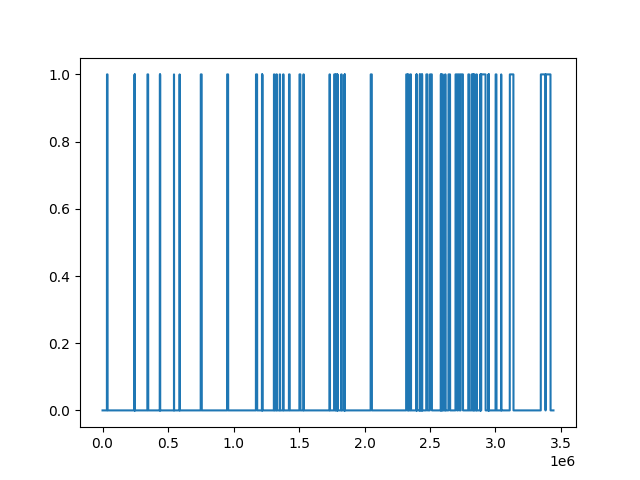
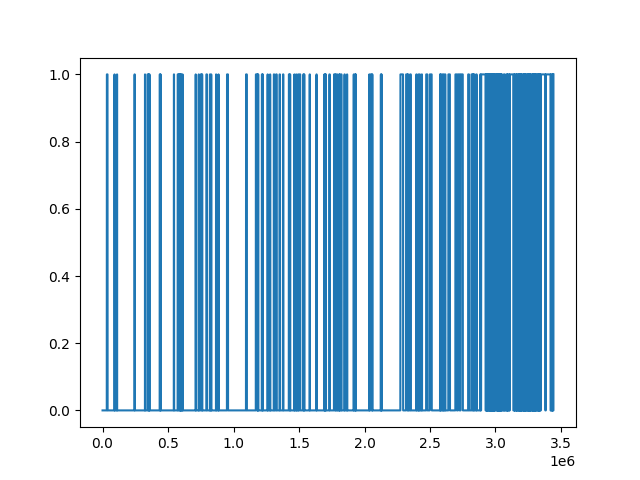
Promising results using spindle torque fingerprint for clustering

diff --git a/src/visualize.py b/src/visualize.py
@@ -67,7 +67,11 @@ def plot_data_and_labels(X, labels):
     df = df.replace(41,2)
     df = df.replace(128,3)
 
-    # pn = df["PN"].iloc[4400:]
+    # Load parameters
+    with open("params.yaml", "r") as params_file:
+        params = yaml.safe_load(params_file)
+    rolling_window_size = params["featurize"]["rolling_window_size"]
+    pn = df["PN"].iloc[rolling_window_size:]
 
     print(len(labels))
     print(len(pn))
